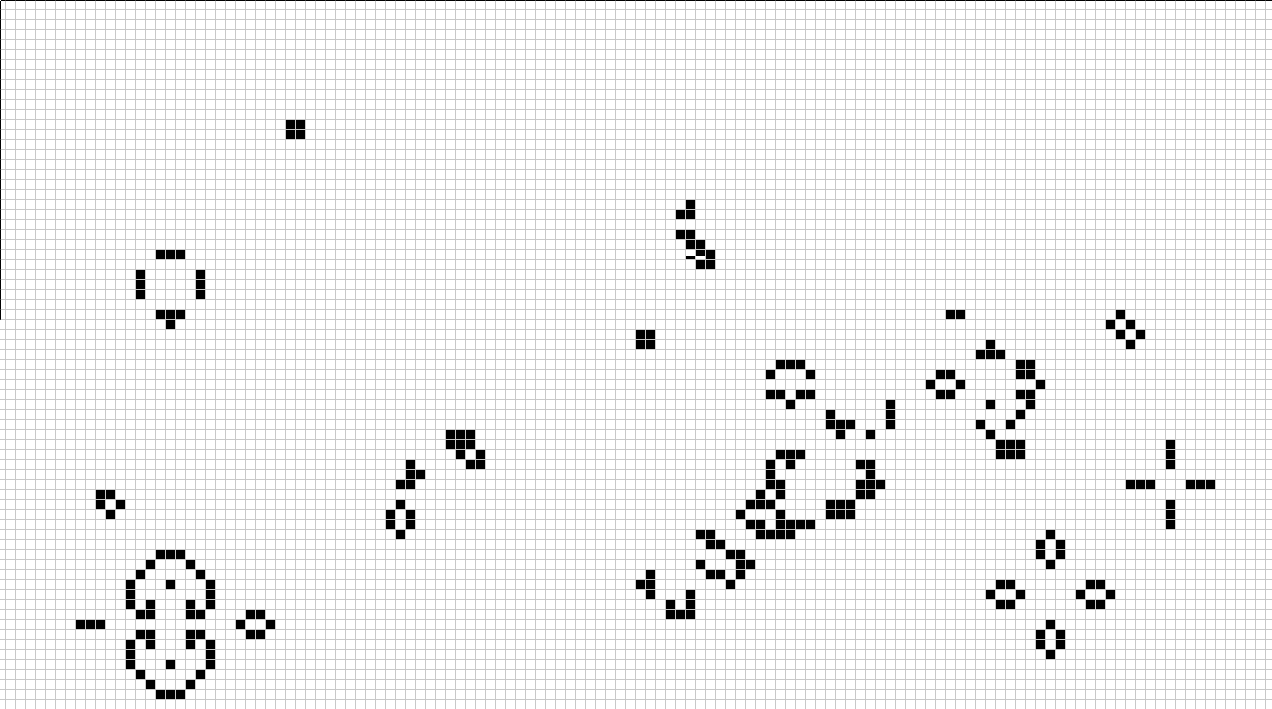
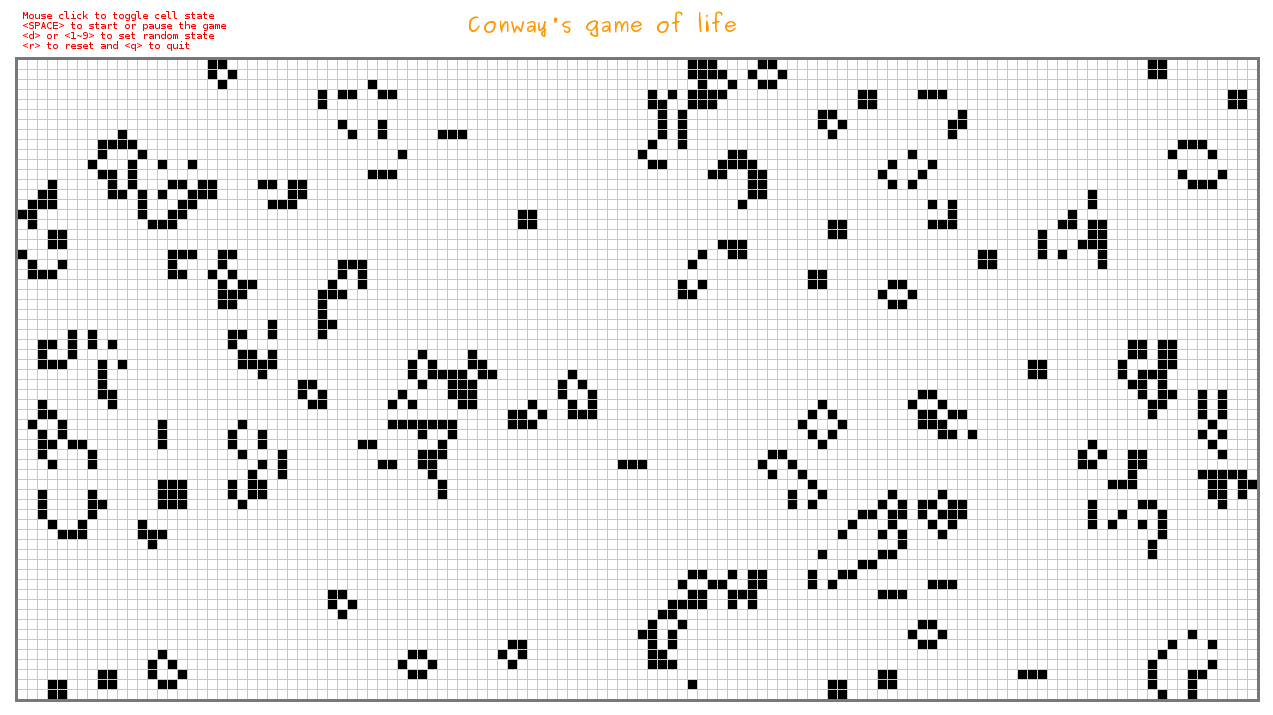
more functions added

diff --git a/conway.py b/conway.py
@@ -1,119 +1,293 @@
-# May 20, 2012
+#!/usr/bin/env python
+
+# Copyright (c) 2012 Dougam Ngou <wvvwwwvvvv@gmail.com>
 # Conway's game of life simulator
-'''
+
+# Permission is hereby granted, free of charge, to any person obtaining a copy
+# of this software and associated documentation files (the "Software"), to deal
+# in the Software without restriction, including without limitation the rights
+# to use, copy, modify, merge, publish, distribute, sublicense, and/or sell
+# copies of the Software, and to permit persons to whom the Software is
+# furnished to do so, subject to the following conditions:
+
+# The above copyright notice and this permission notice shall be included in
+# all copies or substantial portions of the Software.
+
+# THE SOFTWARE IS PROVIDED "AS IS", WITHOUT WARRANTY OF ANY KIND, EXPRESS OR
+# IMPLIED, INCLUDING BUT NOT LIMITED TO THE WARRANTIES OF MERCHANTABILITY,
+# FITNESS FOR A PARTICULAR PURPOSE AND NONINFRINGEMENT. IN NO EVENT SHALL THE
+# AUTHORS OR COPYRIGHT HOLDERS BE LIABLE FOR ANY CLAIM, DAMAGES OR OTHER
+# LIABILITY, WHETHER IN AN ACTION OF CONTRACT, TORT OR OTHERWISE, ARISING FROM,
+# OUT OF OR IN CONNECTION WITH THE SOFTWARE OR THE USE OR OTHER DEALINGS IN
+# THE SOFTWARE.
+
+''' -------------------------------------------------------------------
 Each cell has eight neighbours, except the ones reside on the borders.
 Rules:
-1. Any live cell with fewer than two live neighbours dies, as if caused by under-population.
-2. Any live cell with two or three live neighbours lives on to the next generation.
-3. Any live cell with more than three live neighbours dies, as if by overcrowding.
-4. Any dead cell with exactly three live neighbours becomes a live cell, as if by reproduction.
+1. Any live cell with fewer than two live neighbours dies, 
+    as if caused by under-population.
+2. Any live cell with two or three live neighbours lives on 
+    to the next generation.
+3. Any live cell with more than three live neighbours dies, 
+    as if by overcrowding.
+4. Any dead cell with exactly three live neighbours becomes 
+    a live cell, as if by reproduction.
+    ------------------------------------------------------------------
 '''
+
 import sys, pygame
+import random
 from pygame.locals import *
 
 class Game(object):
     def __init__(self):
+        # dimension of the game window
         self.width = 1280
         self.height = 720
+        # start position of the cells
+        self.offset_x = 20
+        self.offset_y = 60
+        # length of the square cells
         self.gridSize = 9
         self.colorFill = (0, 0, 0)
         self.colorUnfill = (255, 255, 255)
+        # state of the cells is stored in matrix
         self.matrix = []
-        # row and col are the dimension of the grid
-        self.row = self.height / (self.gridSize + 1)
-        self.col = self.width / (self.gridSize + 1)
+        # restore the state of the next generation
+        self.next_matrix = []
+        # row and col are the dimension of the matrix
+        self.row = (self.height - self.offset_x - 
+            self.offset_y) / (self.gridSize + 1)
+        self.col = (self.width-2*self.offset_x) / (self.gridSize + 1)
 
         self.initMatrix()
 
         pygame.init()
+        pygame.display.set_caption("Conway's game of life simulator")
         self.screen = pygame.display.set_mode((self.width, self.height))
         #self.background = pygame.Surface((self.width, self.height))
         #self.background.fill((255, 255, 255))
         self.screen.fill((255, 255, 255))
 
-        self.drawGrid()
+        self.draw_help_text()
+        self.drawGrid(self.offset_x, self.offset_y)
 
         self.clock = pygame.time.Clock()
 
     def initMatrix(self):
         for y in xrange(self.row):
             self.matrix.append([])
+            self.next_matrix.append([])
             for x in xrange(self.col):
-                self.matrix[y].append(0)
+                self.matrix[y].append(False)
+                self.next_matrix[y].append(False)
 
-    def drawGrid(self):
-        for x in xrange(0, self.width, 10):
-            pygame.draw.line(self.screen, (200, 200, 200), (x, 0), (x, self.height), 1)
+    def drawGrid(self, offset_x, offset_y):
 
-        for y in xrange(0, self.height, 10):
-            pygame.draw.line(self.screen, (200, 200, 200), (0, y), (self.width, y), 1)
-        # reflesh the painting
+        width = self.width - offset_x * 2
+        height = self.height - offset_x - offset_y
+
+        grey = (200, 200, 200)
+        dark = (120, 120, 120)
+        
+        # draw vertical lines
+        for x in xrange(offset_x + 10, width + offset_x, 10):
+            pygame.draw.line(self.screen, grey, (x, offset_y), 
+                (x, offset_y + height), 1)
+        # draw horizontal lines
+        for y in xrange(offset_y + 10, height + offset_y, 10):
+            pygame.draw.line(self.screen, grey, (offset_x, y), 
+                (width + offset_x, y), 1)
+
+        # draw the thick borders of the grid: top, buttom, left, right
+        pygame.draw.line(self.screen, dark, (offset_x - 2, offset_y - 1),
+            (offset_x + width + 2, offset_y - 1), 3)
+        pygame.draw.line(self.screen, dark, (offset_x - 2, offset_y + 
+            height + 1), (offset_x + width + 2, offset_y + height + 1), 3)
+        pygame.draw.line(self.screen, dark, (offset_x - 1, offset_y - 1), 
+            (offset_x - 1, offset_y + height + 1), 3)
+        pygame.draw.line(self.screen, dark, (offset_x + width + 1, 
+            offset_y - 1), (offset_x + 1 + width, offset_y + height + 1), 3)
+
+        # refresh the painting
+        pygame.display.flip()
+
+    def draw_help_text(self):
+        title = 'Conway\'s game of life'
+        help_text = ['Mouse click to toggle cell state',
+            '<SPACE> to start or pause the game', 
+            '<d> or <1~9> to set random state', 
+            '<r> to reset and <q> to quit']
+        
+        myfont = pygame.font.SysFont('Purisa', 20, True)
+        text = myfont.render(title, 1, (255, 150, 0))
+        self.screen.blit(text, (470, 10))
+
+        myfont = pygame.font.SysFont('DejaVu Sans Mono', 10)
+        y = 10
+        for line in help_text:
+            text = myfont.render(line, True, (255, 0, 0))
+            self.screen.blit(text, (25, y))
+            y += 10
+            
+    def random_state(self, mode):
+        # the probablity whether a cell is initially alive
+        probablity = [0.05, 0.1, 0.2, 0.3, 0.4, 0.5, 0.6, 0.7, 0.8, 0.9]
+
+        if mode == 0:
+            idx = int(random.random() * 10)
+        elif mode >= 0 and mode <= 9:
+            idx = mode
+
+        for r in xrange(self.row):
+            for c in xrange(self.col):
+                if probablity[idx] > random.random():
+                    self.matrix[r][c] = True
+                else:
+                    self.matrix[r][c] = False
+
+        
+    def handle_keyboard(self, event):
+        
+        if event.key == pygame.K_ESCAPE:
+            pygame.quit()
+        elif event.key == pygame.K_r:
+            print 'reseting grid...'
+            self.reset_grid()
+        elif event.key == pygame.K_SPACE:
+            print 'space key pressed, game started...'
+            self.conway()
+        elif event.key == pygame.K_q:
+            pygame.quit()
+        # set random probablity
+        elif event.key == pygame.K_d:
+            self.random_state(0)
+            self.print_state()
+        # set defined probablity
+        elif event.key >= pygame.K_1 and event.key <= K_9:
+            self.random_state(int(event.key - K_1 + 1))
+            self.print_state()
+    
+    # set the state of every cell to be 'dead'
+    def reset_grid(self):
+
+        for r in xrange(self.row):
+            for c in xrange(self.col):
+                if self.matrix[r][c] == True:
+                    self.matrix[r][c] = False
+                    rect = (c * (self.gridSize + 1)  + self.offset_x + 1, 
+                        r *(self.gridSize + 1) + self.offset_y + 1,
+                        self.gridSize, self.gridSize)
+                    pygame.draw.rect(self.screen, self.colorUnfill, rect)
+        # refresh the display
         pygame.display.flip()
 
     def run(self):
-        running = True
 
-        while running:
+        sz = self.gridSize + 1
+        while True:
+            # make it 30 frame per second
             self.clock.tick(30)
             x, y = pygame.mouse.get_pos()
 
             for event in pygame.event.get():
                 if event.type == pygame.QUIT:
-                    running = False
-                    break
-                if event.type == pygame.MOUSEBUTTONDOWN:
-                    if event.button == 2:
-                        print 'middle button pressed, game started...'
-                        self.conway()
+                    pygame.quit()
 
-                    idx_x = x / 10
-                    idx_y = y / 10
-                    if self.matrix[idx_y][idx_x] == 1:
-                        pygame.draw.rect(self.screen, self.colorUnfill, (idx_x * 10 + 1, idx_y * 10 + 1, self.gridSize, self.gridSize))
-                        self.matrix[idx_y][idx_x] = 0
+                elif event.type == pygame.KEYDOWN:
+                    self.handle_keyboard(event)
+                elif event.type == pygame.MOUSEBUTTONDOWN:
+                    # event outside the cell borders, ignore it
+                    if (x > self.width - self.offset_x 
+                        or y > self.height - self.offset_x
+                        or x < self.offset_x or y < self.offset_y):
+                        continue
+                    # get the corresponding matrix index
+                    idx_x = (x - self.offset_x) / sz
+                    idx_y = (y - self.offset_y) / sz
+                    rect = (x / sz * sz + 1, y / sz * sz + 1, 
+                        self.gridSize, self.gridSize)
+                    # flip the cell state
+                    if self.matrix[idx_y][idx_x] == True:
+                        pygame.draw.rect(self.screen, self.colorUnfill, rect)
+                        self.matrix[idx_y][idx_x] = False
                     else:
-                        pygame.draw.rect(self.screen, self.colorFill, (idx_x * 10 + 1, idx_y * 10 + 1, self.gridSize, self.gridSize))
-                        self.matrix[idx_y][idx_x] = 1
+                        pygame.draw.rect(self.screen, self.colorFill, rect)
+                        self.matrix[idx_y][idx_x] = True
                     pygame.display.flip()
 
-    def conway(self):
-        newMatrix = []
+    def next_gen(self):
 
         for r in xrange(self.row):
-            newMatrix.append([])
             for c in xrange(self.col):
-                newMatrix[r].append(0)
+                neighbours = self.getNeighbours(r, c)
+                # if this cell is alive
+                if self.matrix[r][c] == True:
+                    # die of under-popularion or overcrowding
+                    if neighbours < 2 or neighbours > 3:
+                        self.next_matrix[r][c] = False
+                    else :
+                        self.next_matrix[r][c] = True
+                # cell is dead
+                else :
+                    if neighbours == 3:
+                        self.next_matrix[r][c] = True
+                    else :
+                        self.next_matrix[r][c] = False
+        # set the matrix to be the new state
+        for r in xrange(self.row):
+            for c in xrange(self.col):
+                self.matrix[r][c] = self.next_matrix[r][c]
 
-        while True:
+    def print_state(self):
+
+        for r in xrange(self.row):
+            for c in xrange(self.col):
+                # replace the previous generation of the new generation
+                #self.matrix[r][c] = new_matrix[r][c]
+
+                rect = (c * (self.gridSize + 1)  + self.offset_x+ 1, 
+                    r * (self.gridSize + 1) + self.offset_y + 1, 
+                    self.gridSize, self.gridSize)
+                if self.matrix[r][c] == True:
+                    pygame.draw.rect(self.screen, self.colorFill, rect)
+                elif self.matrix[r][c] == False:
+                    pygame.draw.rect(self.screen, self.colorUnfill, rect)
+        # refresh the painting
+        pygame.display.flip()
+
+    def conway(self):
+        running = True
+        pause = False
+
+        while running:
             # make it 3fps
             self.clock.tick(3)
-            for r in xrange(self.row):
-                for c in xrange(self.col):
-                    neighbours = self.getNeighbours(r, c)
-                    # if this cell is alive
-                    if self.matrix[r][c] == 1:
-                        # die of under-popularion or overcrowding
-                        if neighbours < 2 or neighbours > 3:
-                            newMatrix[r][c] = 0
-                        else :
-                            newMatrix[r][c] = 1
-                    # cell is dead
-                    else :
-                        if neighbours == 3:
-                            newMatrix[r][c] = 1
-                        else :
-                            newMatrix[r][c] = 0
+            x, y = pygame.mouse.get_pos()
 
-            for r in xrange(self.row):
-                for c in xrange(self.col):
-                    # replace the previous generation of the new generation
-                    self.matrix[r][c] = newMatrix[r][c]
-                    if newMatrix[r][c] == 1:
-                        pygame.draw.rect(self.screen, self.colorFill, (c * 10 + 1, r * 10 + 1, self.gridSize, self.gridSize))
-                    elif newMatrix[r][c] == 0:
-                        pygame.draw.rect(self.screen, self.colorUnfill, (c * 10 + 1, r * 10 + 1, self.gridSize, self.gridSize))
-            pygame.display.flip()
-                        
+            # collect and handle the event
+            for event in pygame.event.get():
+                if event.type == pygame.QUIT:
+                    pygame.quit()
+                # keyboard stroke
+                elif event.type == pygame.KEYDOWN:
+                    # pause 
+                    if event.key == pygame.K_SPACE:
+                        pause = not pause
+                    # reset the grid
+                    elif event.key == pygame.K_r:
+                        running = False
+                        self.reset_grid()
+                    # quit
+                    elif event.key == pygame.K_q:
+                        pygame.quit()
+
+            if pause == True:
+                continue
+
+            self.next_gen()
+            self.print_state()
+                                    
     def getNeighbours(self, r, c):
         # 8 possible neighbours
         dr = [-1, -1, -1, 0, 1, 1, 1, 0]

diff --git a/README.md b/README.md
@@ -1,17 +1,22 @@
 # Conways game of life simulator
-there are lots of todoes to improve this program.
 
 ![] (https://github.com/daogan/conways-game-of-life/raw/master/screenshot.png)
 
 ## Usage
 
-Use left mouse button to modify the state of a cell (alive or dead),
-when you are done, click middle button of the mouse to get the game started.
+Mouse click to toggle cell state, press <SPACE> to start or pause a running
+game, <d> to set a random inititial state with random probability whether a 
+cell should be 'dead' or 'alive', number key <1> to <9> also set the state
+to be random, but with defined probability whether a cell should be 'dead' or 
+'alive', ie, <4> set about 40 percent of the cells to be alive.
 
 ## license
 
 This content is released under the 
 [MIT license](http://www.opensource.org/licenses/mit-license.php).
+
+## TODO
+Load pre-defined state
 
 &copy; 2012 Daogan Ao &lt;wvvwwwvvvv@gmail.com&gt;
 
